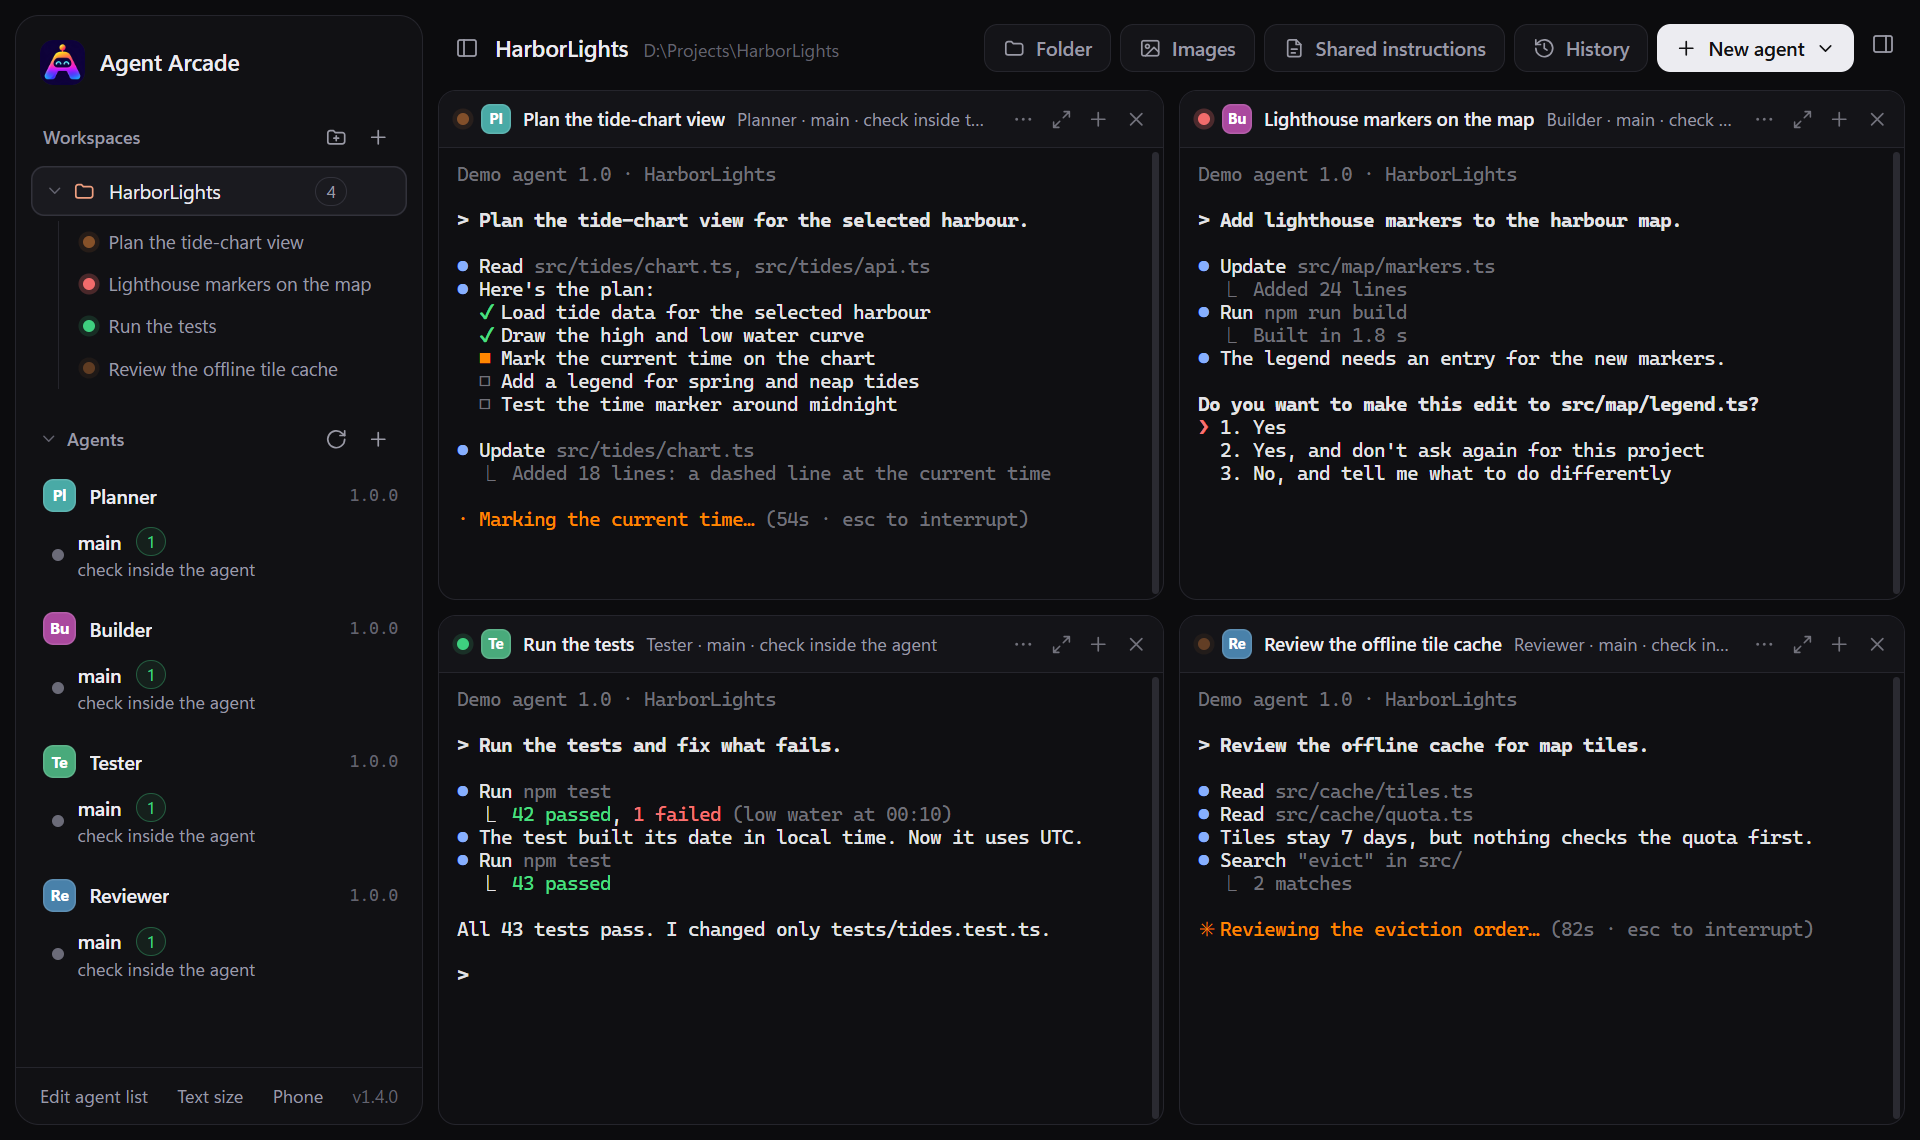
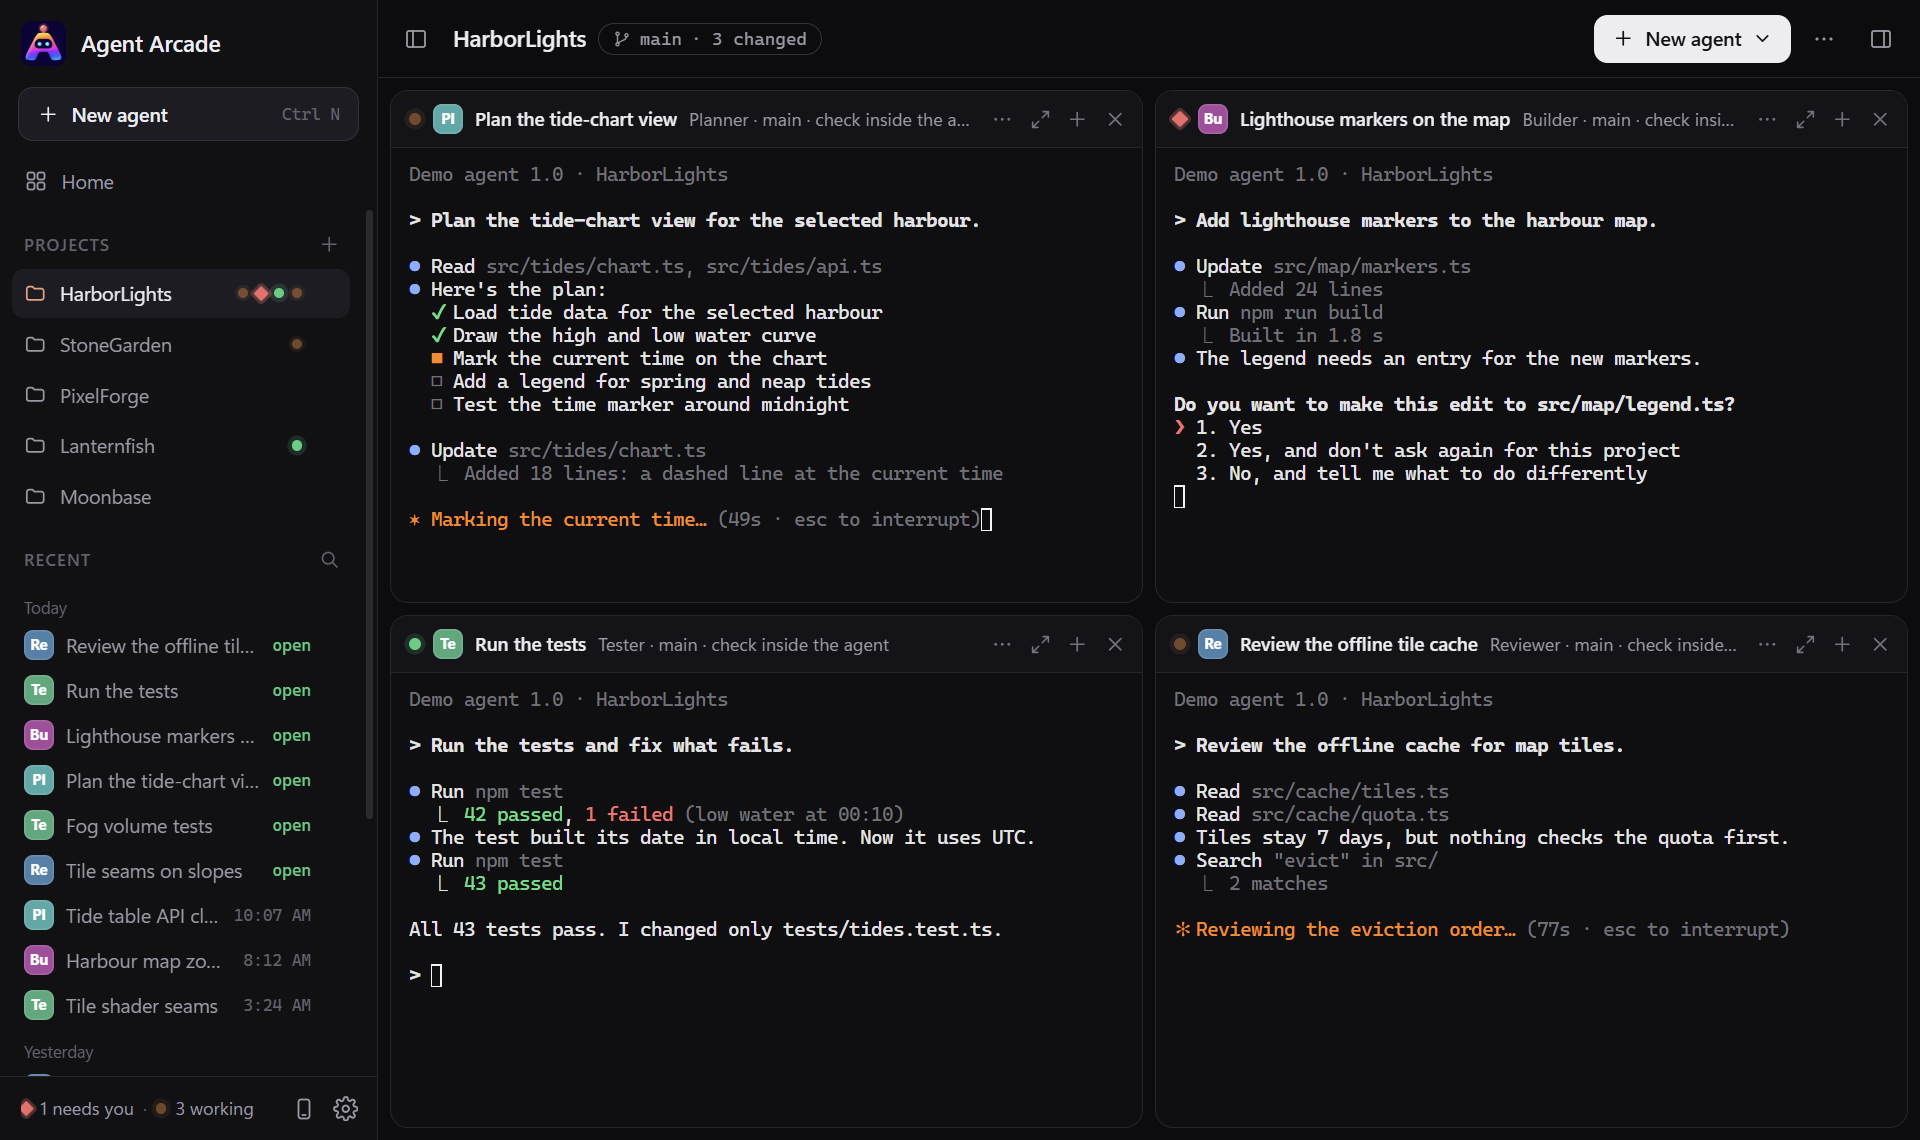
README: 1.5.0 screenshots (Home, panes, side panel), MCP servers and the mascot
- docs/media/home.png (new), panes.png and side-panel.png from a test copy of this build: made-up projects
  (HarborLights, StoneGarden, PixelForge, Lanternfish, Moonbase), the scripted demo agents (Planner, Builder,
  Tester, Reviewer; no real agent, no account, no email), project paths shown as ~\source\repos\<name>.
- The image block shows Home full width above the two older views.
- Settings → MCP servers (what it shows and what a check starts) and the mascot (and how to keep it still).
- Known gaps: Recent in the sidebar resumes chats after a restart; the mascot and MCP tests in the test list.

diff --git a/README.md b/README.md
@@ -12,11 +12,14 @@
      github.com and keep the user-attachments link it inserts on its own line here. -->
 
 <p>
-  <img src="docs/media/panes.png" alt="Agent Arcade with four demo agents in a grid: two working (orange dots), one asking for permission (red), one idle (green)" width="49%">
+  <img src="docs/media/home.png" alt="Home: a card per project with its git branch, running agents and their status, a 10-day activity line and its last chats; one agent needs you, listed on top" width="100%">
+</p>
+<p>
+  <img src="docs/media/panes.png" alt="A project with four demo agents in a grid: two working (orange dots), one asking for permission (red diamond), one idle; the sidebar lists projects with their status dots and recent chats" width="49%">
   <img src="docs/media/side-panel.png" alt="One agent pane asking for permission, next to the side panel's Changes tab with a git diff" width="49%">
 </p>
 
-<sub>Screenshots from a test copy, with stand-in demo agents and a made-up project.</sub>
+<sub>Screenshots from a test copy, with stand-in demo agents and made-up projects.</sub>
 
 A Windows app that runs your AI coding agents side by side on one project: Claude Code, Codex (ChatGPT), GitHub Copilot CLI, Cursor, Antigravity CLI and Gemini CLI (API key or Code Assist), each in its own pane inside the app.
 
@@ -27,7 +30,7 @@ Free for personal use. Professional use needs Agent Arcade Pro (EUR 25 per user 
 - Windows 11 on x64 only. Windows 10 and Windows on ARM aren't tested, and there is no Mac or Linux version.
 - The phone app is Android only (8.0 or newer). There is no iPhone app.
 - No worktree isolation: agents in one project share its folder. Give them separate tasks, or open separate folders as separate workspaces.
-- Agents don't survive an app restart. Closing Agent Arcade stops them; History can resume their chats afterwards.
+- Agents don't survive an app restart. Closing Agent Arcade stops them; Recent in the sidebar can resume their chats afterwards.
 - Status dots, alerts and phone approvals come from reading each agent's screen (approval prompts, "esc to interrupt" lines) and the notifications it sends. When a vendor changes its interface, a dot or an alert can be wrong until Agent Arcade catches up.
 - Not code-signed yet: SmartScreen warns on first start, and Smart App Control blocks it, until the code-signing certificate arrives.
 
@@ -65,6 +68,8 @@ Then open **Settings** (the gear at the bottom of the sidebar) → **Agents and 
 - The sidebar has **New agent** (Ctrl+N, the same menu as in the top bar), **Home**, your **Projects** with a status dot per running agent (click a dot to show that pane) and **Recent**: your chats across projects, newest first; click one to continue it, the magnifier searches them. Its footer says how many agents need you or are working, and has the phone button and the gear for **Settings** (Ctrl+,).
 - The top bar shows the project, its git branch and changed files (click it for the Changes tab), **New agent**, and a **⋯** menu with Open folder, Images, Shared instructions, Open in Windows Terminal, Open in Unity (for a Unity project) and the project's chat history. The button left of the project name hides the whole sidebar, so the panes get its width; click it again to bring the sidebar back.
 - **Settings** has General (text size, notifications, keep this PC awake, where new projects go, update check, mascot animations), Agents and accounts (versions, accounts and emails, add account, install, sign in, check again, edit agent list), Phone, Shared instructions, MCP servers and About.
+- **Settings → MCP servers** lists the MCP servers of each installed agent, per account, from the agent's own list command in the selected project (`claude mcp list`, `codex mcp list --json`, `gemini mcp list`, `copilot mcp list`, `cursor-agent mcp list`): each server's name, scope when the agent says it, and whether it answers. Nothing else is read or kept: no command lines, URLs, keys or environment. Claude Code, Gemini CLI and Cursor check a server by connecting to it, so opening the tab or **Check again** starts their servers briefly. Antigravity CLI has no list command ("not available").
+- The robot next to the name in the sidebar wears the agents' status on its antenna: pulsing orange while one works, red when one needs you. It blinks and follows the pointer, and it likes being clicked. Settings → General → **Mascot animations**, or Windows' reduce-motion setting, keeps it still.
 - Drag a pane by its header onto another pane to swap their places in the grid.
 - Drop files or images on a pane to paste their paths into the agent's prompt. Claude Code and Codex attach pasted image paths; Gemini gets them as `@path`. Images dragged from a browser are saved to `%TEMP%\AgentArcade\drops` first.
 - Click an image path an agent prints to view the image in the pane (arrow keys switch images, Esc closes).
@@ -118,7 +123,7 @@ This publishes the app to `%LOCALAPPDATA%\Programs\AgentArcade` and adds a Start
 
 `install-and-run.ps1` does it all in one go: it builds first (a build error leaves the open app alone), then closes the open app the way its close button does (with agents running, the app asks you first, and Cancel stops the script), installs, and starts the new version. Run it from a terminal outside Agent Arcade or with the Claude app's Run button, not from a pane inside Agent Arcade. `test-run.ps1` builds a test copy into `%TEMP%\AgentArcade-test-build` and starts it next to the installed app, with its own data in `%TEMP%\AgentArcade-test-home` (see below); it installs nothing.
 
-To try a change without installing: `dotnet run` (while the installed app is closed). To run the built-in checks: `AgentArcade.exe --self-check`, then read `%TEMP%\AgentArcade-selfcheck.txt`; with `--fixtures docs\phone-remote\fixtures` it also writes the Phone remote contract's example files there ([their README](docs/phone-remote/fixtures/README.md)). `node --test tests/remote.test.js` checks the page's alert rules (one alert per dialog), `node --test tests/home/home.test.js` Home's and Recent's helpers (activity per day, Today / Yesterday / Earlier, short times), and `node --test tests/status/status.test.mjs` the golden screens below (the self-check runs them too when `node.exe` is on PATH).
+To try a change without installing: `dotnet run` (while the installed app is closed). To run the built-in checks: `AgentArcade.exe --self-check`, then read `%TEMP%\AgentArcade-selfcheck.txt`; with `--fixtures docs\phone-remote\fixtures` it also writes the Phone remote contract's example files there ([their README](docs/phone-remote/fixtures/README.md)). `node --test tests/remote.test.js` checks the page's alert rules (one alert per dialog), `node --test tests/home/home.test.js` Home's and Recent's helpers (activity per day, Today / Yesterday / Earlier, short times), `node --test tests/mascot.test.mjs` the mascot (states, easter eggs, reduced motion), `node --test tests/mcp.test.js` the MCP servers table, and `node --test tests/status/status.test.mjs` the golden screens below (the self-check runs them too when `node.exe` is on PATH).
 
 To run a test build next to the installed app, set `AGENT_ARCADE_HOME` to an empty folder first. That copy keeps its own settings, agents, history and paired phones there, and doesn't count as the same app. With `AGENT_ARCADE_REMOTE_LOOPBACK=1` its Phone remote listens on 127.0.0.1 only, so Windows doesn't show a firewall prompt for it; give it another `RemotePort` in its `settings.json`.
 
